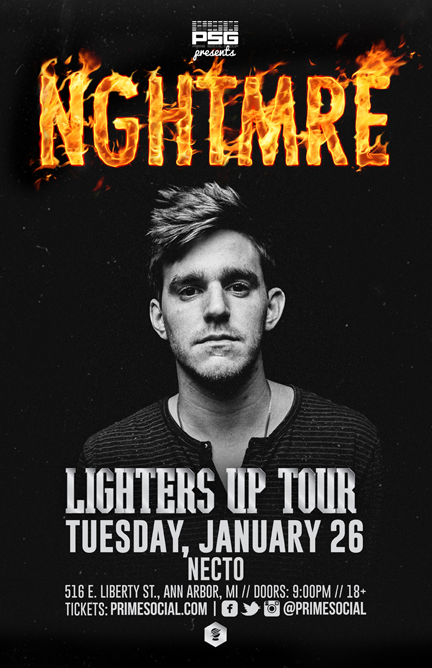
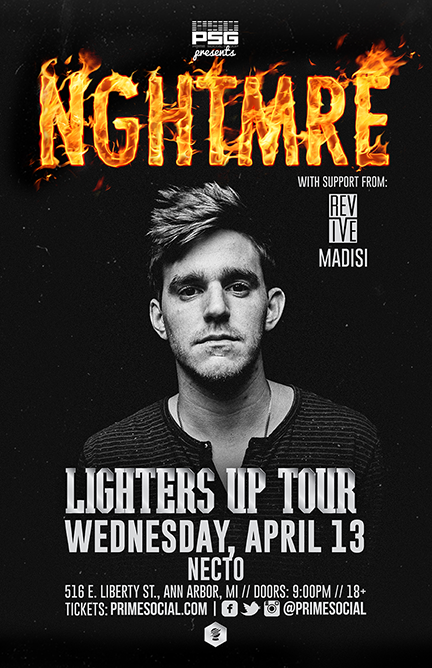
cal and event updates

diff --git a/index.html b/index.html
@@ -396,23 +396,6 @@
 
 			<!-- Special Event -->
 			<div class="large-4 columns end">
-				<span class="home-page-special-event-date">Jan 26th, 2016, 9:00pm</span>
-				<a href="special-events/nghtmare-at-necto-nightclub-ann-arbor-michigan-jan-26th-2016.html"><h3 class="special-event-header">NGHTMARE: RESCHEDULED</h3></a>
-				<a href="special-events/nghtmare-at-necto-nightclub-ann-arbor-michigan-jan-26th-2016.html"><img src="img/event-images/nghtmare-at-necto-nightclub-ann-arbor.png"></a>
-				<div>
-					<a class="standard-button" href="special-events/nghtmare-at-necto-nightclub-ann-arbor-michigan-jan-26th-2016.html">VIEW NEW DATE</a>
-				</div>
-			</div>
-			<!-- End Special Event -->
-
-			<!-- ******************************************** SMALL DIVIDER -->
-			<div class="small-12 columns hide-for-medium-up">
-				<hr>
-			</div>
-			<!-- ******************************************** SMALL DIVIDER -->
-
-			<!-- Special Event -->
-			<div class="large-4 columns end">
 				<span class="home-page-special-event-date">Jan 28th, 2016, 10:00pm</span>
 				<a href="special-events/pajama-party-college-night-thursday-at-necto-nightclub-ann-arbor-michigan-jan-28th-2016.html"><h3 class="special-event-header">Pajama Party</h3></a>
 				<a href="special-events/pajama-party-college-night-thursday-at-necto-nightclub-ann-arbor-michigan-jan-28th-2016.html"><img src="img/event-images/pajama-party-college-night-at-necto-nightclub-ann-arbor.png"></a>
@@ -440,16 +423,8 @@
 			<!-- End Special Event -->
 
 			<!-- ******************************************** SMALL DIVIDER -->
-			<div class="small-12 columns hide-for-medium-up">
-				<hr>
-			</div>
+			<div class="small-12 columns hide-for-medium-up"><hr></div>
 			<!-- ******************************************** SMALL DIVIDER -->
-
-			<!-- ******************************************** LARGE DIVIDER -->
-			<div class="large-12 columns hide-for-small">
-				<hr>
-			</div>
-			<!-- ******************************************** LARGE DIVIDER -->
 
 			<!-- Special Event -->
 			<div class="large-4 columns end">
@@ -467,6 +442,11 @@
 				<hr>
 			</div>
 			<!-- ******************************************** SMALL DIVIDER -->
+
+
+			<!-- ******************************************** LARGE DIVIDER -->
+			<div class="large-12 columns hide-for-small"><hr></div>
+			<!-- ******************************************** LARGE DIVIDER -->
 
 			<!-- Special Event -->
 			<div class="large-4 columns end">
@@ -496,10 +476,6 @@
 			</div>
 			<!-- End Special Event -->
 
-			<!-- ***** LARGE DIVIDER ************************** -->
-			<div class="large-12 columns hide-for-small"><hr></div>
-			<!-- ***** LARGE DIVIDER ************************** -->
-
 			<!-- ***** SMALL DIVIDER ****************************** -->
 			<div class="small-12 columns hide-for-medium-up"><hr></div>
 			<!-- ***** SMALL DIVIDER ****************************** -->
@@ -518,6 +494,10 @@
 			<!-- ***** SMALL DIVIDER ****************************** -->
 			<div class="small-12 columns hide-for-medium-up"><hr></div>
 			<!-- ***** SMALL DIVIDER ****************************** -->
+
+			<!-- ***** LARGE DIVIDER ************************** -->
+			<div class="large-12 columns hide-for-small"><hr></div>
+			<!-- ***** LARGE DIVIDER ************************** -->
 
 			<!-- Special Event -->
 			<div class="large-4 columns end">
@@ -547,10 +527,6 @@
 			</div>
 			<!-- End Special Event -->
 
-			<!-- ***** LARGE DIVIDER ************************** -->
-			<div class="large-12 columns hide-for-small"><hr></div>
-			<!-- ***** LARGE DIVIDER ************************** -->
-
 			<!-- ***** SMALL DIVIDER ****************************** -->
 			<div class="small-12 columns hide-for-medium-up"><hr></div>
 			<!-- ***** SMALL DIVIDER ****************************** -->
@@ -569,6 +545,10 @@
 			<!-- ******************************************** SMALL DIVIDER -->
 			<div class="small-12 columns hide-for-medium-up"><hr></div>
 			<!-- ******************************************** SMALL DIVIDER -->
+
+			<!-- ***** LARGE DIVIDER ************************** -->
+			<div class="large-12 columns hide-for-small"><hr></div>
+			<!-- ***** LARGE DIVIDER ************************** -->
 
 			<!-- Special Event -->
 			<div class="large-4 columns end">
@@ -595,10 +575,6 @@
 				</div>
 			</div>
 			<!-- End Special Event -->
-			
-			<!-- ***** LARGE DIVIDER ************************** -->
-			<div class="large-12 columns hide-for-small"><hr></div>
-			<!-- ***** LARGE DIVIDER ************************** -->
 
 			<!-- ***** SMALL DIVIDER ****************************** -->
 			<div class="small-12 columns hide-for-medium-up"><hr></div>
@@ -619,6 +595,11 @@
 			<div class="small-12 columns hide-for-medium-up"><hr></div>
 			<!-- ******************************************** SMALL DIVIDER -->
 
+
+			<!-- ***** LARGE DIVIDER ************************** -->
+			<div class="large-12 columns hide-for-small"><hr></div>
+			<!-- ***** LARGE DIVIDER ************************** -->
+
 			<!-- Special Event -->
 			<div class="large-4 columns end">
 				<span class="home-page-special-event-date">Mar 11th, 2016, 9:00pm</span>
@@ -626,6 +607,21 @@
 				<a href="special-events/mr-necto-king-pageant-at-necto-nightclub-ann-arbor-michigan-march-11th-2016.html"><img src="img/event-images/mr-necto-king-pageant-at-necto-nightclub-ann-arbor.png"></a>
 				<div>
 					<a class="standard-button" href="special-events/mr-necto-king-pageant-at-necto-nightclub-ann-arbor-michigan-march-11th-2016.html">View Event</a>
+				</div>
+			</div>
+			<!-- End Special Event -->
+
+			<!-- ******************************************** SMALL DIVIDER -->
+			<div class="small-12 columns hide-for-medium-up"><hr></div>
+			<!-- ******************************************** SMALL DIVIDER -->
+			
+			<!-- Special Event -->
+			<div class="large-4 columns end">
+				<span class="home-page-special-event-date">Apr 13th, 2016, 9:00pm</span>
+				<a href="special-events/nghtmare-at-necto-nightclub-ann-arbor-michigan-apr-13th-2016.html"><h3 class="special-event-header">NGHTMARE</h3></a>
+				<a href="special-events/nghtmare-at-necto-nightclub-ann-arbor-michigan-apr-13th-2016.html"><img src="img/event-images/nghtmare-at-necto-nightclub-ann-arbor.png"></a>
+				<div>
+					<a class="standard-button" href="special-events/nghtmare-at-necto-nightclub-ann-arbor-michigan-apr-13th-2016.html">View Event</a>
 				</div>
 			</div>
 			<!-- End Special Event -->

diff --git a/calendar.html b/calendar.html
@@ -293,29 +293,7 @@
 				<!-- <div class="friday" name="friday"></div> -->
 				<!-- <div class="saturday" name="saturday"></div> -->
 
-				<!-- Special Event Listing -->
-				<div class="row page-section">
-					<div class="large-2 columns calendar-date">
-						<span class="day-indicator">Tuesday&nbsp;</span><br><span class="date-indicator">Jan 26th 2016&nbsp;&nbsp;</span><br class="hide-for-small"><span class="time-indicator">9:00pm</span>
-						</div>
-						<div class="large-6 columns calendar-event">
-						<span class="special-calendar-event">special event</span><br>
-						<h3><a href="special-events/nghtmare-at-necto-nightclub-ann-arbor-michigan-jan-26th-2016.html">NGHTMARE: RESCHEDULED FOR 4/13/16</a></h3>
-						<p>NGHTMRE hit the dance scene like a sweet dream releasing tracks at a frenetic pace since he got here a year ago. The 24 year old's remix of Showtek's "We Like To Party" with Slander has been championed by the likes of Diplo, Carnage and DJ Snake to name a few and garnered almost 5 million plays online. </p>
-
-					</div>
-					<div class="large-4 small-12 columns calendar-links ">
-						<ul class="large-block-grid-1 small-block-grid-1">
-
-							<!-- No Tickets -->
-							<li><a class="button expand tix-button"  href="http://www.eventbrite.com/e/nghtmre-necto-tickets-19930478598">GET TICKETS</a></li>
-							<!---->
-
-							<li><a class="expand standard-button" href="special-events/nghtmare-at-necto-nightclub-ann-arbor-michigan-jan-26th-2016.html">VIEW EVENT</a></li>
-						</ul>
-					</div>
-				</div>
-				<!-- END Special Event Listing -->
+				
 
 				<!-- Special Event Listing -->
 				<div class="row page-section">
@@ -666,6 +644,31 @@
 				<div class="monday"   name="Mar 28th, 2016"></div>
 				<div class="thursday" name="Mar 31st, 2016"></div>
 				-->
+
+				<!-- Special Event Listing -->
+				<div class="row page-section">
+					<div class="large-2 columns calendar-date">
+						<span class="day-indicator">Wednesday&nbsp;</span><br><span class="date-indicator">Mar 13th 2016&nbsp;&nbsp;</span><br class="hide-for-small"><span class="time-indicator">9:00pm</span>
+						</div>
+						<div class="large-6 columns calendar-event">
+						<span class="special-calendar-event">special event</span><br>
+						<h3><a href="special-events/nghtmare-at-necto-nightclub-ann-arbor-michigan-apr-13th-2016.html">NGHTMARE</a></h3>
+						<p>NGHTMRE hit the dance scene like a sweet dream releasing tracks at a frenetic pace since he got here a year ago. The 24 year old's remix of Showtek's "We Like To Party" with Slander has been championed by the likes of Diplo, Carnage and DJ Snake to name a few and garnered almost 5 million plays online.</p>
+						<p><strong>This is the rescheduled date. All tickets purchased for the January show ARE valid for this date.</strong></p>
+
+					</div>
+					<div class="large-4 small-12 columns calendar-links ">
+						<ul class="large-block-grid-1 small-block-grid-1">
+
+							<!-- No Tickets -->
+							<li><a class="button expand tix-button"  href="http://www.eventbrite.com/e/nghtmre-necto-tickets-19930478598">GET TICKETS</a></li>
+							<!---->
+
+							<li><a class="expand standard-button" href="special-events/nghtmare-at-necto-nightclub-ann-arbor-michigan-apr-13th-2016.html">VIEW EVENT</a></li>
+						</ul>
+					</div>
+				</div>
+				<!-- END Special Event Listing -->
 
 
 			</div>

diff --git a/special-events/nghtmare-at-necto-nightclub-ann-arbor-michigan-apr-13th-2016.html b/special-events/nghtmare-at-necto-nightclub-ann-arbor-michigan-apr-13th-2016.html
@@ -279,7 +279,7 @@
 		<!-- Calendar Section -->
 		<div class="row page-section">	
 			<div class="large-12 columns section-title mayhem-event"> 
-				<span class="home-page-special-event-date">Jan 26th, 2016</span>
+				<span class="home-page-special-event-date">Apr 13th, 2016</span>
 				<h2>NGHTMARE</h2>
 			</div>
 
@@ -295,9 +295,8 @@
 
 						<hr class="hide-for-medium-up">
 						<h3>About The Event:</h3>
-						<p>ATTENTION: We regret to inform you that, due to illness, NGHTMRE will be unable to perform tonight.</p>
-						<p><strong>The show has been rescheduled for 4/13/16 and all tickets ARE valid for this date</strong>. We hope he feels better soon, and we're now very excited for April.</p>
-						<p>BUT: <strong>We're still raging tonight. Free cover with your NGHTMRE ticket</strong> + $2 call drinks, $2 domestic beers, and $2 kamikazes all night long!</p>
+						<p>NGHTMRE hit the dance scene like a sweet dream releasing tracks at a frenetic pace since he got here a year ago. The 24 year old's remix of Showtek's "We Like To Party" with Slander has been championed by the likes of Diplo, Carnage and DJ Snake to name a few and garnered almost 5 million plays online.</p>
+						<p><strong>This is the rescheduled date. All tickets purchased for the January show ARE valid for this date.</strong></p>
 						<hr>
 						<h3>Event Info:</h3>
 						<ul class="large-block-grid-3 small-block-grid-3">
@@ -308,7 +307,7 @@
 							
 							<li>
 								<h4>Cover</h4>
-								<p>FREE WITH NIGHTMARE TICKET</p>
+								<p>$15/$20  Door $25</p>
 							</li>
 							<li>
 								<h4>Other</h4>
